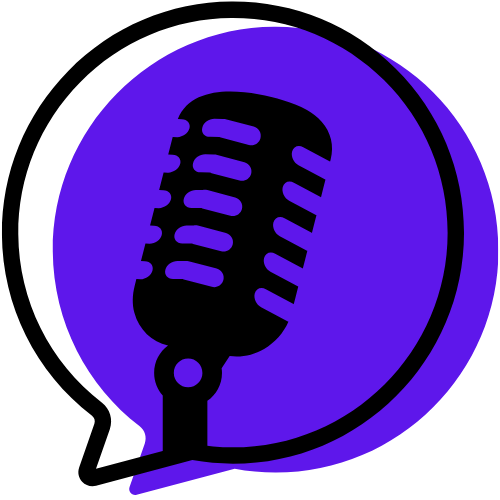
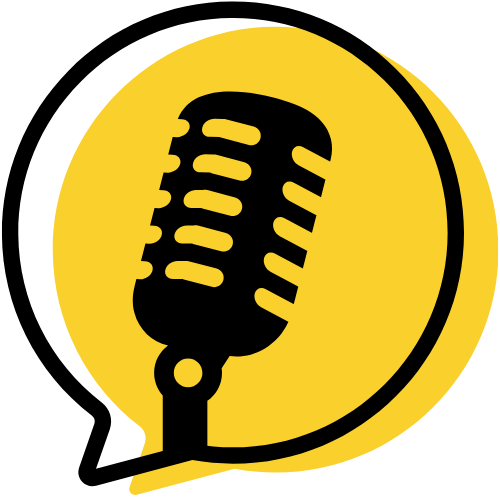
feat: ブランドカラーを黄色に統一、ロゴ・キャッチコピー更新

diff --git a/src/constants/brand.ts b/src/constants/brand.ts
@@ -1,0 +1,16 @@
+/**
+ * PODDOCK ブランドカラー定義
+ *
+ * アプリ全体で使用するブランドカラーを一元管理
+ * tailwind.config.mjs のdaisyUIテーマとも同期させること
+ */
+
+export const BRAND_COLORS = {
+  /** メインカラー（黄色） */
+  primary: '#fcd301',
+  /** primary上のテキスト色（黒） */
+  primaryContent: '#1a1a1a',
+} as const;
+
+/** デフォルトのポッドキャストテーマカラー */
+export const DEFAULT_THEME_COLOR = BRAND_COLORS.primary;
